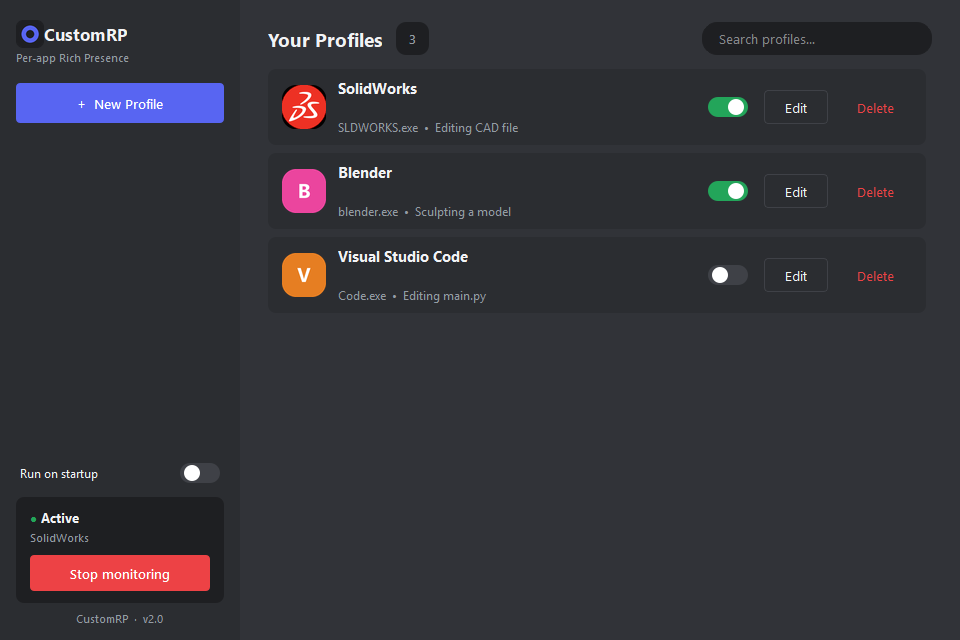
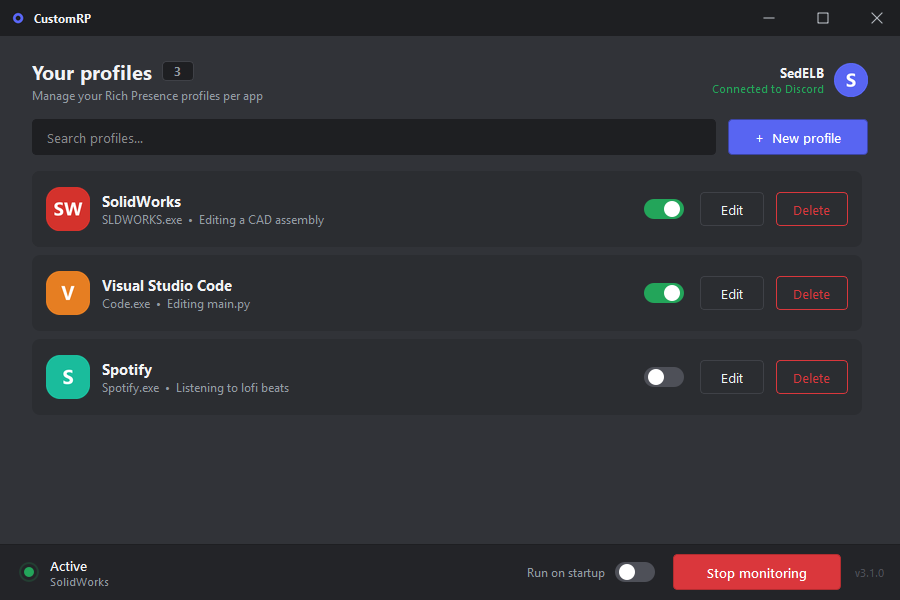
Updated README

diff --git a/README.md b/README.md
@@ -1,141 +1,91 @@
 # CustomRP
 
-CustomRP is a Windows system tray application that manages your Discord Rich Presence on a per application basis. It runs quietly in the background, detects when an application you have profiled is running, and updates your Discord status to match. When the application closes, the status clears.
+CustomRP is a Windows system tray app that manages your Discord Rich Presence per application. It runs in the background, detects when a profiled app is running, and updates your Discord status to match — then clears it when the app closes.
 
 ![Main window](docs/images/main.png)
 
 ## Features
 
-- Per application profiles. Each profile maps an executable to a custom Discord status.
-- Live editor with a Discord style preview card that updates as you type.
-- Logo search (free, no API key required) and local image upload. Both are hosted automatically so they actually appear in Discord.
-- Automatic detection. While CustomRP is running, launching a profiled app shows the status within about two seconds.
-- Run on startup option, so CustomRP is always ready in the tray.
-- System tray icon with idle, active, and error states.
+- Per-app profiles mapping an executable to a custom Discord status.
+- Live editor with a Discord-style preview card that updates as you type.
+- Logo search (free, no API key) and local image upload, both auto-hosted so they actually appear in Discord.
+- Automatic detection within about two seconds; status clears when the app closes.
+- Run on startup, a system tray icon with idle/active/error states, and your connected Discord account shown in the header.
 
 ## Requirements
 
 - Windows 10 or 11
-- The Discord desktop application, running
-- Python 3.11 or newer (only needed if you run from source)
+- The Discord desktop app, running
+- Python 3.11 or newer (only to run from source)
 
-## Setup
+## Install and run
 
-### 1. Install Python
-
-If you do not already have it, download Python 3.11 or newer from https://www.python.org/downloads/ and install it. On the first installer screen, tick "Add Python to PATH".
-
-Verify the install by opening a terminal (PowerShell) and running:
-
-```
-py --version
-```
-
-### 2. Get the code
-
-Download this repository (use the green Code button, then Download ZIP) and extract it, or clone it with git:
-
-```
-git clone <repository-url>
-```
-
-### 3. Install the dependencies
-
-Open a terminal in the project folder and run:
+1. Install Python 3.11+ from https://www.python.org/downloads/ and tick **Add Python to PATH** on the first screen.
+2. Get the code: download this repo as a ZIP and extract it, or `git clone <repository-url>`.
+3. From the project folder, install the dependencies and run:
 
 ```
 py -m pip install -r requirements.txt
-```
-
-This installs PyQt6, pypresence, psutil, Pillow, and requests.
-
-### 4. Run it
-
-```
 py main.py
 ```
 
-The main window opens and an icon is added to your system tray. Closing the window hides it to the tray. To quit completely, right click the tray icon and choose Quit.
+The window opens and an icon is added to your tray. Closing the window hides it to the tray; to quit, right-click the tray icon and choose Quit.
 
 ## Get a Discord Application ID
 
-Every profile needs a Discord Application ID so Discord knows which application the presence belongs to.
+Each profile needs a Discord Application ID so Discord knows which app the presence belongs to.
 
 1. Go to https://discord.com/developers/applications and sign in.
-2. Click New Application. Give it a name. This name becomes the bold title shown in your status. Click Create.
-3. Open General Information and copy the Application ID.
+2. Click **New Application**, name it (this name becomes the bold title in your status), and Create.
+3. Open **General Information** and copy the **Application ID**.
 
-You will paste this ID into the profile editor in the next step. You do not need to upload anything in the developer portal, CustomRP handles images for you.
+You don't need to upload anything in the portal — CustomRP handles images for you.
 
 ## Create a profile
 
-Click New Profile to open the editor.
+Click **New profile** to open the editor.
 
 ![Profile editor](docs/images/editor.png)
 
-The card at the top is a live preview of exactly what Discord will show. You edit it directly:
+The card at the top is a live preview of exactly what Discord will show — type the application name (bold), details, and state directly on it. Then set:
 
-- Application name: the bold line. Type it on the card.
-- Details and state: the two lines underneath.
+- **Executable** — click Browse and pick the program's `.exe` (e.g. `SLDWORKS.exe`), or type its name. The profile is active while that process runs.
+- **Application ID** — paste the Discord Application ID from above.
+- **Show elapsed time** — toggle the timer on or off.
 
-Then fill in the rest of the form:
-
-- Executable: click Browse and select the program's .exe (for example SLDWORKS.exe), or type the name. The profile becomes active whenever that process is running.
-- Application ID: paste the Discord Application ID from the previous section.
-- Behavior: switch Show elapsed time and Enable profile on or off.
-
-Click Save Profile. The new profile appears in the list.
+Click **Save profile**.
 
 ## Set the presence image
 
-Click the game image on the preview card to open the image chooser.
+Click the game image on the preview card to open the chooser.
 
 ![Image chooser](docs/images/picker.png)
 
-There are two ways to set an image:
+- **Search logos** — type a brand or app name, press Search, and click a result (free source, no API key).
+- **Upload** — choose a local PNG, JPG, ICO, or WEBP.
 
-- Search logos: type a brand or app name, press Search, then click a result. Logos come from a free source and need no API key.
-- Upload: choose a local PNG, JPG, ICO, or WEBP file.
+Either way CustomRP hosts the image and fills in the URL automatically so it renders in Discord. The image is uploaded to a public host so Discord can read it.
 
-Either way, CustomRP hosts the image for you and fills in the image URL automatically, so it renders in Discord. Please note that the image is uploaded to a public image host so that Discord can read it.
+Worth knowing:
 
-Two things worth knowing:
+- A local file on its own won't appear in Discord — that's why CustomRP hosts it.
+- The round avatar on the card is your real Discord avatar, shown read-only. Rich Presence can't change it; only the game image is editable.
 
-- Discord cannot display a local file on its own, which is why CustomRP hosts it. A local path alone will not appear in Discord.
-- The round avatar at the top of the card is a generic Discord avatar. It does not change. Only the game image is editable, because Rich Presence cannot change your real Discord profile picture.
+## Monitoring and startup
 
-## Start monitoring
+Click **Start monitoring** in the bottom status bar. When a profiled app is detected the indicator turns **Active** and your Discord status updates within about two seconds. Click **Stop monitoring**, or quit from the tray, to stop.
 
-Click Start monitoring in the bottom left of the sidebar. The status indicator changes to Active when a profiled application is detected. Launch one of your profiled applications and your Discord status updates within about two seconds.
-
-When you are finished, click Stop monitoring, or quit from the tray icon.
-
-## Run on startup
-
-Turn on Run on startup in the sidebar. CustomRP will then launch into the tray automatically when Windows starts, with monitoring already running. After that, simply launching any profiled application shows the status, with nothing else to click.
-
-To turn this off, switch Run on startup back off.
+Turn on **Run on startup** to launch CustomRP into the tray with monitoring already running whenever Windows starts. Switch it back off to disable.
 
 ## How it works
 
-- main.py starts the tray icon, the window, and the process monitor.
-- The monitor checks running processes every two seconds using psutil and activates the matching profile.
-- rpc_manager talks to Discord over its local connection using pypresence and updates the presence.
-- Elapsed time counts from the moment the presence becomes active, not from when the application first launched.
+- `main.py` starts the tray icon, the window, and the background loop.
+- The loop checks running processes every two seconds with psutil and activates the matching profile.
+- `rpc_manager` talks to Discord over its local connection with pypresence and updates the presence.
+- Elapsed time counts from when the presence becomes active, not from when the app launched.
 
 ## Troubleshooting
 
-- The status does not appear. Make sure the Discord desktop app is open and that you clicked Start monitoring. The tray icon turns red and reads "Discord not detected" when Discord is not found.
-- The image does not show in Discord. Set the image through the chooser, which hosts it, or paste a public image URL into the large image field. A local file by itself will not appear.
-- The wrong app is detected, or none is. The target must match the process name exactly, for example SLDWORKS.exe. Using Browse avoids typos.
-
-## Optional: build a single executable
-
-To package CustomRP as one .exe, use PyInstaller and include the PyQt6 files:
-
-```
-py -m pip install pyinstaller
-py -m PyInstaller --noconsole --onefile --collect-all PyQt6 main.py
-```
-
-If you turned on Run on startup before packaging, switch it off and on once after building, so the startup entry points at the new executable.
+- **Status doesn't appear** — make sure Discord is open and you clicked Start monitoring. The tray icon turns red and reads "Discord not detected" when Discord isn't found.
+- **Image doesn't show in Discord** — set it through the chooser (which hosts it) or paste a public image URL into the large image field. A local file alone won't appear.
+- **Wrong app detected, or none** — the target must match the process name exactly (e.g. `SLDWORKS.exe`). Using Browse avoids typos.